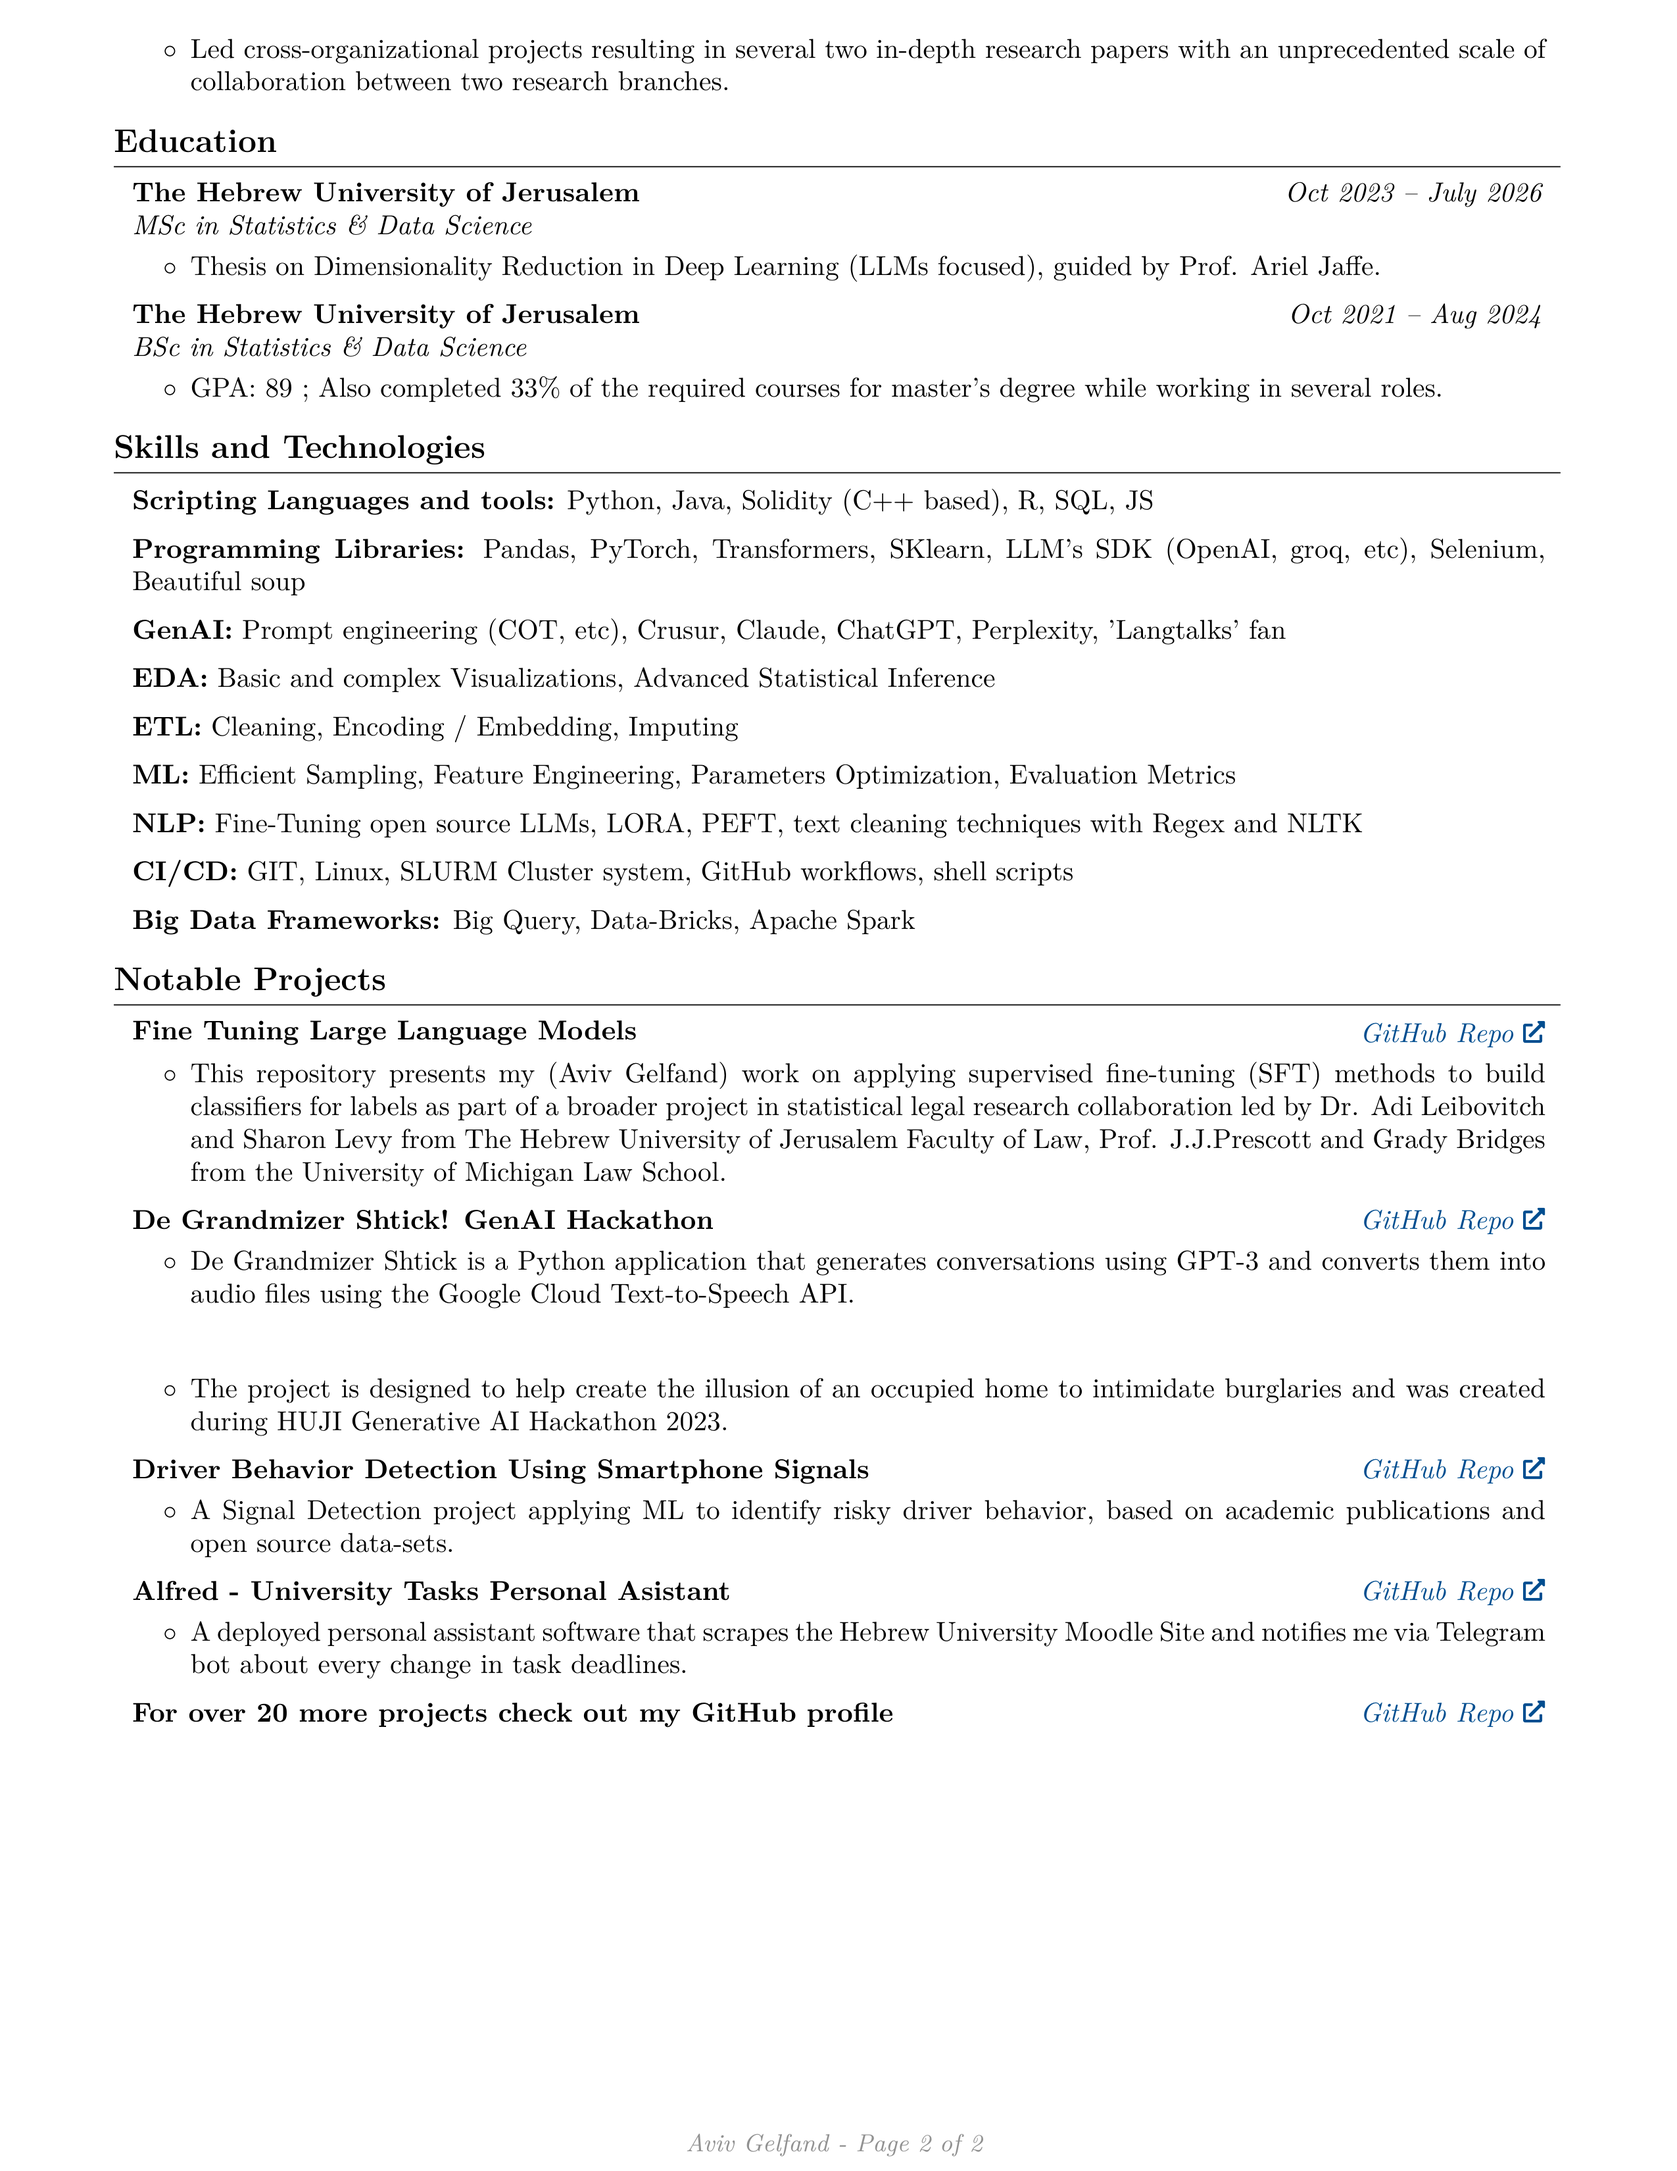
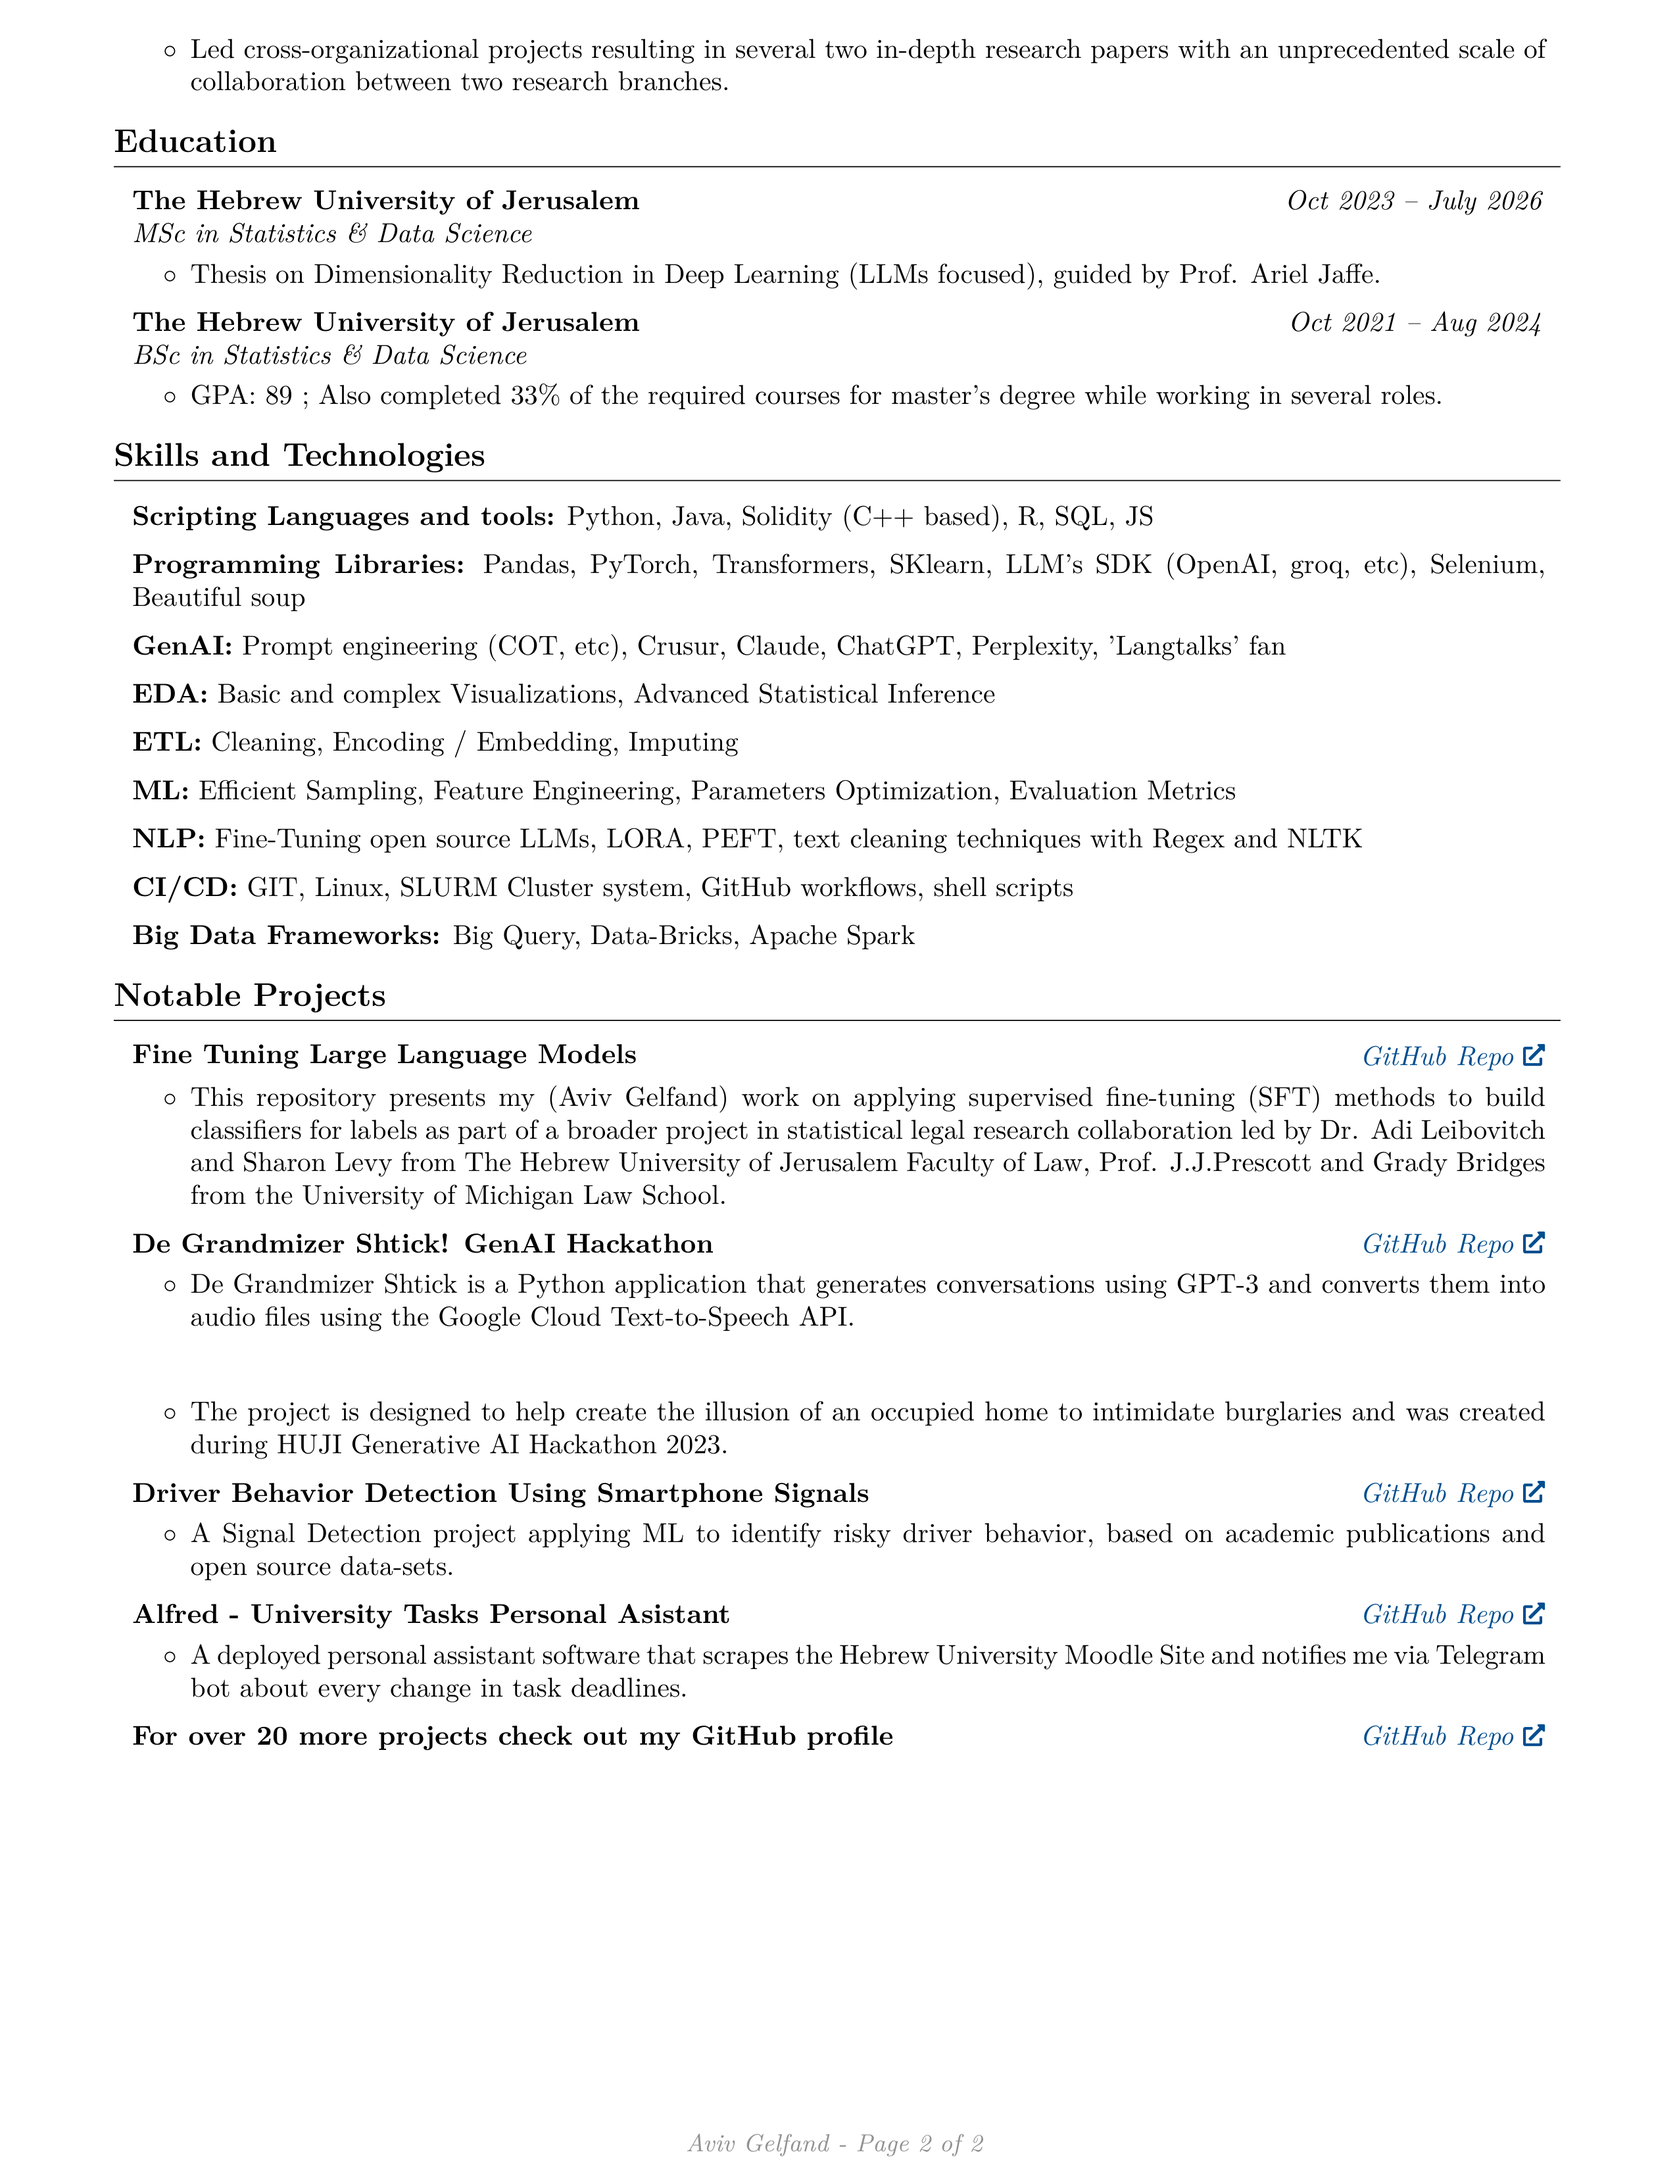
Render the latest CV

diff --git a/Aviv_Gelfand_CV.tex b/Aviv_Gelfand_CV.tex
@@ -71,13 +71,13 @@
     0.3 cm
 }{
     % bottom space:
-    0.2 cm
+    0.3 cm
 } % section title spacing
 
 \renewcommand\labelitemi{$\circ$} % custom bullet points
 \newenvironment{highlights}{
     \begin{itemize}[
-        topsep=0.10 cm,
+        topsep=0.1 cm,
         parsep=0.8 cm,
         partopsep=0pt,
         itemsep=0pt,
@@ -89,7 +89,7 @@
 
 \newenvironment{highlightsforbulletentries}{
     \begin{itemize}[
-        topsep=0.10 cm,
+        topsep=0.1 cm,
         parsep=0.8 cm,
         partopsep=0pt,
         itemsep=0pt,
@@ -160,21 +160,21 @@
 
         \normalsize
         \mbox{{\color{black}\footnotesize\faMapMarker*}\hspace*{0.13cm}Jerusalem, Israel}%
-        \kern 0.25 cm%
+        \kern 0.1 cm%
         \AND%
-        \kern 0.25 cm%
+        \kern 0.1 cm%
         \mbox{\hrefWithoutArrow{mailto:avivgelfand@gmail.com}{\color{black}{\footnotesize\faEnvelope[regular]}\hspace*{0.13cm}avivgelfand@gmail.com}}%
-        \kern 0.25 cm%
+        \kern 0.1 cm%
         \AND%
-        \kern 0.25 cm%
+        \kern 0.1 cm%
         \mbox{\hrefWithoutArrow{tel:+972-54-300-7257}{\color{black}{\footnotesize\faPhone*}\hspace*{0.13cm}054-300-7257}}%
-        \kern 0.25 cm%
+        \kern 0.1 cm%
         \AND%
-        \kern 0.25 cm%
+        \kern 0.1 cm%
         \mbox{\hrefWithoutArrow{https://linkedin.com/in/aviv-gelfand}{\color{black}{\footnotesize\faLinkedinIn}\hspace*{0.13cm}aviv-gelfand}}%
-        \kern 0.25 cm%
+        \kern 0.1 cm%
         \AND%
-        \kern 0.25 cm%
+        \kern 0.1 cm%
         \mbox{\hrefWithoutArrow{https://github.com/AvivGelfand}{\color{black}{\footnotesize\faGithub}\hspace*{0.13cm}AvivGelfand}}%
     \end{header}
 
@@ -211,7 +211,7 @@
             \textit{The Hebrew University of Jerusalem}
         \end{twocolentry}
 
-        \vspace{0.10 cm}
+        \vspace{0.1 cm}
         \begin{onecolentry}
             \begin{highlights}
                 \item Successfully executed a Supervised-Fine-Tuning training of large language models to classify defendant arguments in trials for a broader statistical legal research project; reduced labeling time and errors, replacing manual tagging with LLM-based tagging.
@@ -234,7 +234,7 @@
             \textit{Upscale Analytics}
         \end{twocolentry}
 
-        \vspace{0.10 cm}
+        \vspace{0.1 cm}
         \begin{onecolentry}
             \begin{highlights}
                 \item Built dozens of ML hands-on projects for a Machine Learning and Statistical Inference course, with constant feedback from a Senior Data Scientist (and head lecturer), Michael Winer.
@@ -255,7 +255,7 @@
             \textit{The Hebrew University of Jerusalem}
         \end{twocolentry}
 
-        \vspace{0.10 cm}
+        \vspace{0.1 cm}
         \begin{onecolentry}
             \begin{highlights}
                 \item Self-taught and programmed smart contracts with a C++-based programming language; developed simulations interface using react.js.
@@ -275,7 +275,7 @@
             \textit{Israel Defense Forces}
         \end{twocolentry}
 
-        \vspace{0.10 cm}
+        \vspace{0.1 cm}
         \begin{onecolentry}
             \begin{highlights}
                 \item Conducted research, assessments, and analytics for high-ranked decision-makers. Triplicated, updated, and maintained strategic databases while collaborating with programmers and economists.
@@ -300,7 +300,7 @@
             \textit{MSc in Statistics \& Data Science}
         \end{twocolentry}
 
-        \vspace{0.10 cm}
+        \vspace{0.1 cm}
         \begin{onecolentry}
             \begin{highlights}
                 \item Thesis on Dimensionality Reduction in Deep Learning (LLMs focused), guided by Prof. Ariel Jaffe.
@@ -319,7 +319,7 @@
             \textit{BSc in Statistics \& Data Science}
         \end{twocolentry}
 
-        \vspace{0.10 cm}
+        \vspace{0.1 cm}
         \begin{onecolentry}
             \begin{highlights}
                 \item GPA: 89 ; Also completed 33\% of the required courses for master's degree while working in several roles.
@@ -400,7 +400,7 @@
             \textbf{Fine Tuning Large Language Models}
         \end{twocolentry}
 
-        \vspace{0.10 cm}
+        \vspace{0.1 cm}
         \begin{onecolentry}
             \begin{highlights}
                 \item This repository presents my (Aviv Gelfand) work on applying supervised fine-tuning (SFT) methods to build classifiers for labels as part of a broader project in statistical legal research collaboration led by Dr. Adi Leibovitch and Sharon Levy from The Hebrew University of Jerusalem Faculty of Law, Prof. J.J.Prescott and Grady Bridges from the University of Michigan Law School.
@@ -417,7 +417,7 @@
             \textbf{De Grandmizer Shtick! GenAI Hackathon}
         \end{twocolentry}
 
-        \vspace{0.10 cm}
+        \vspace{0.1 cm}
         \begin{onecolentry}
             \begin{highlights}
                 \item De Grandmizer Shtick is a Python application that generates conversations using GPT-3 and converts them into audio files using the Google Cloud Text-to-Speech API.
@@ -435,7 +435,7 @@
             \textbf{Driver Behavior Detection Using Smartphone Signals}
         \end{twocolentry}
 
-        \vspace{0.10 cm}
+        \vspace{0.1 cm}
         \begin{onecolentry}
             \begin{highlights}
                 \item A Signal Detection project applying ML to identify risky driver behavior, based on academic publications and open source data-sets.
@@ -452,7 +452,7 @@
             \textbf{Alfred - University Tasks Personal Asistant}
         \end{twocolentry}
 
-        \vspace{0.10 cm}
+        \vspace{0.1 cm}
         \begin{onecolentry}
             \begin{highlights}
                 \item A deployed personal assistant software that scrapes the Hebrew University Moodle Site and notifies me via Telegram bot about every change in task deadlines.
